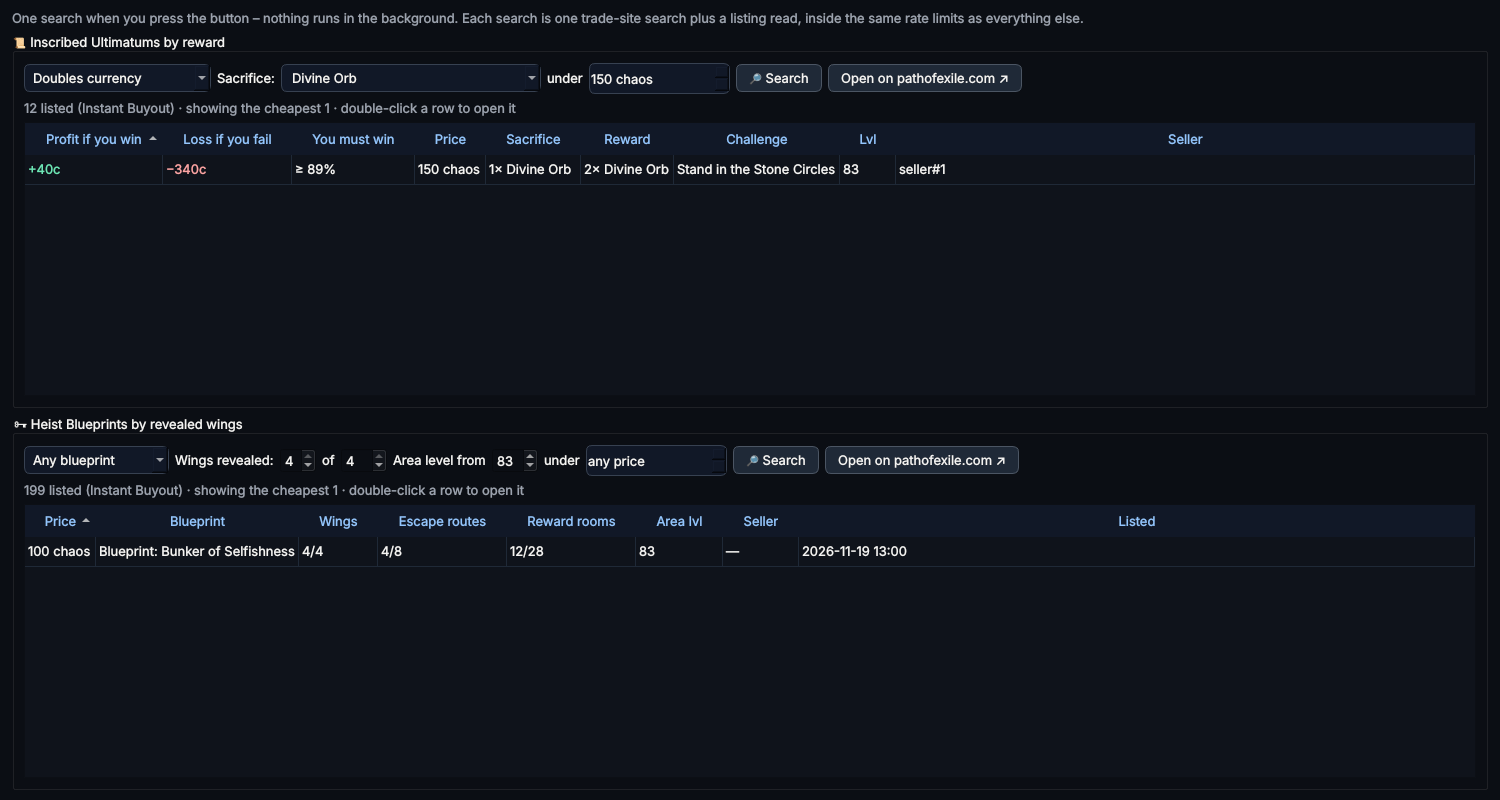
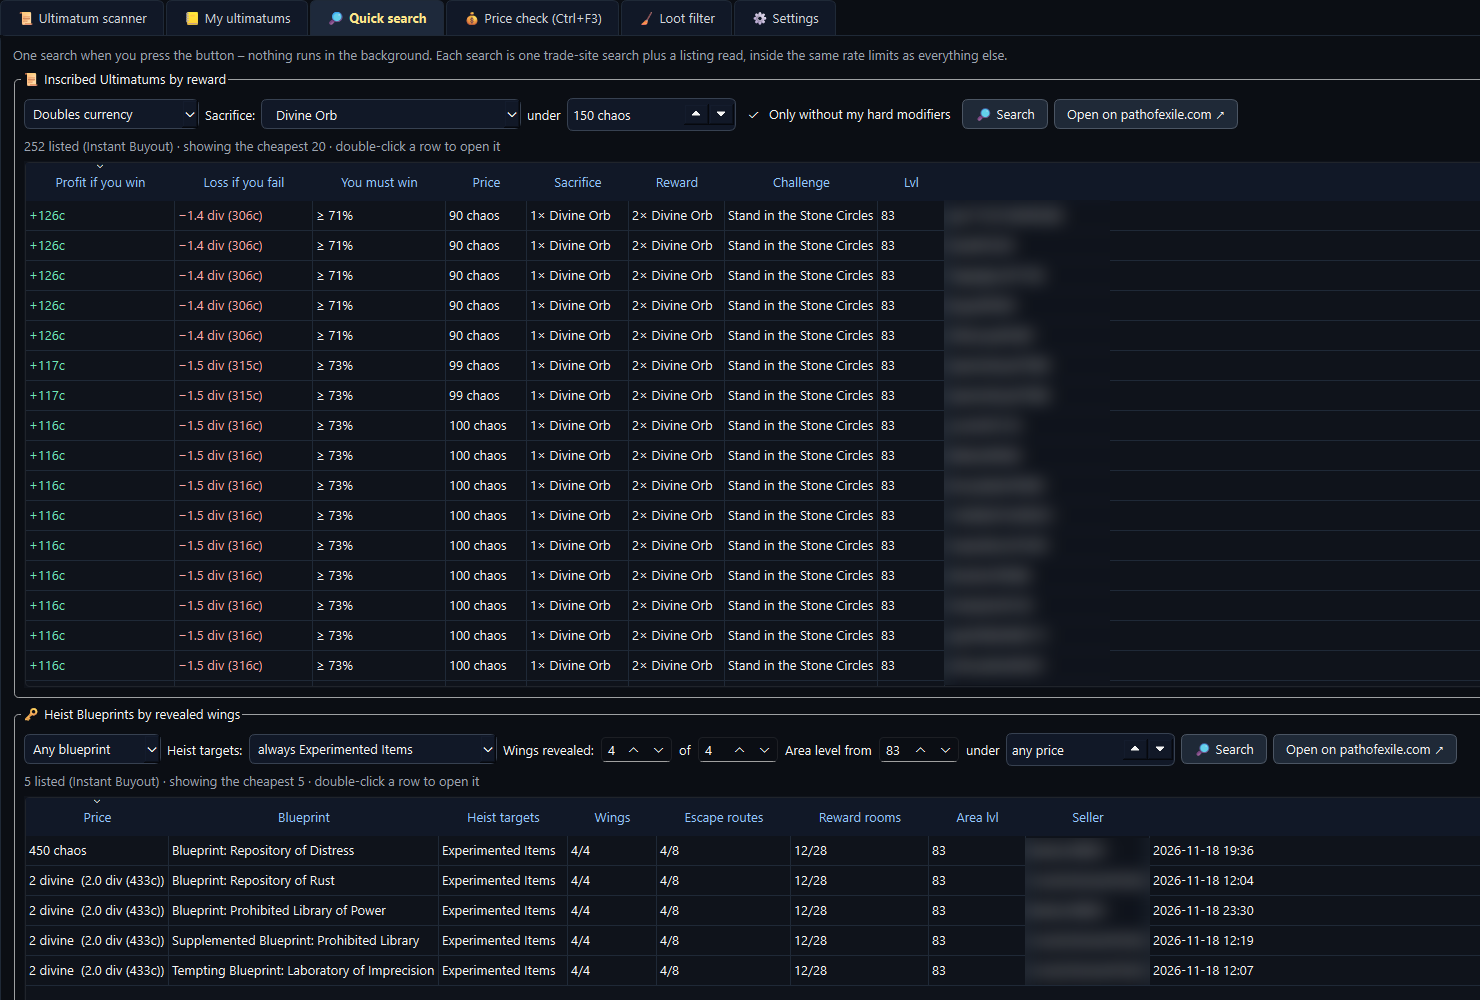
README: real screenshots of Quick search, Settings and Loot filter
Claude-Session: https://claude.ai/code/session_017yevqj5YLA6hB5QasRYUk8

diff --git a/README.md b/README.md
@@ -47,6 +47,10 @@ ultimatum sells for and how often you'd have to win.
 
 ![Quick search](docs/quick-search.png)
 
+### 🧹 Loot filter
+
+![Loot filter](docs/loot-filter.png)
+
 ### ⚠ Your own hard modifiers
 
 Not everyone hates the same modifiers. Tick the ones you won't run – the scanner marks them, can hide those deals and
